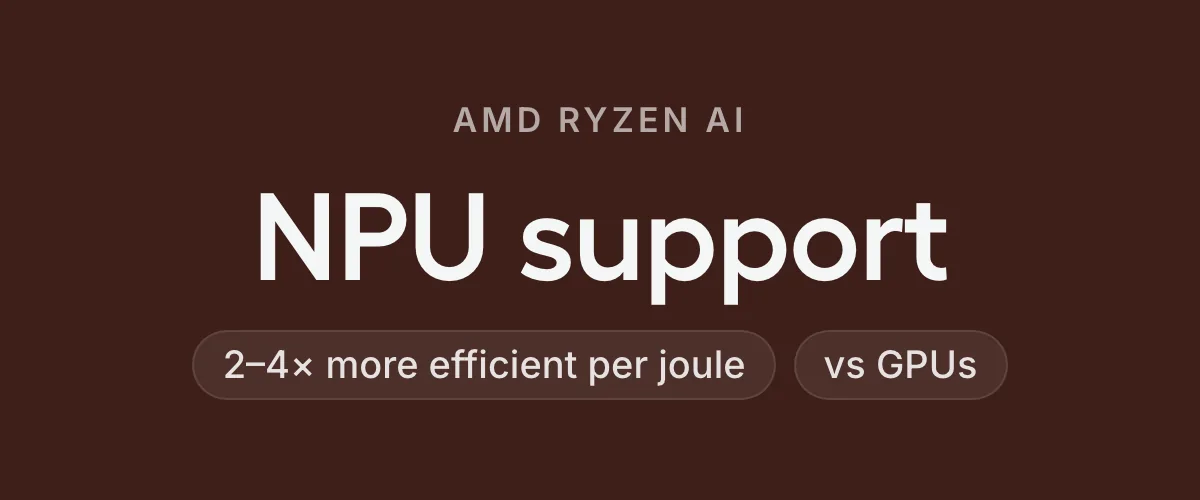
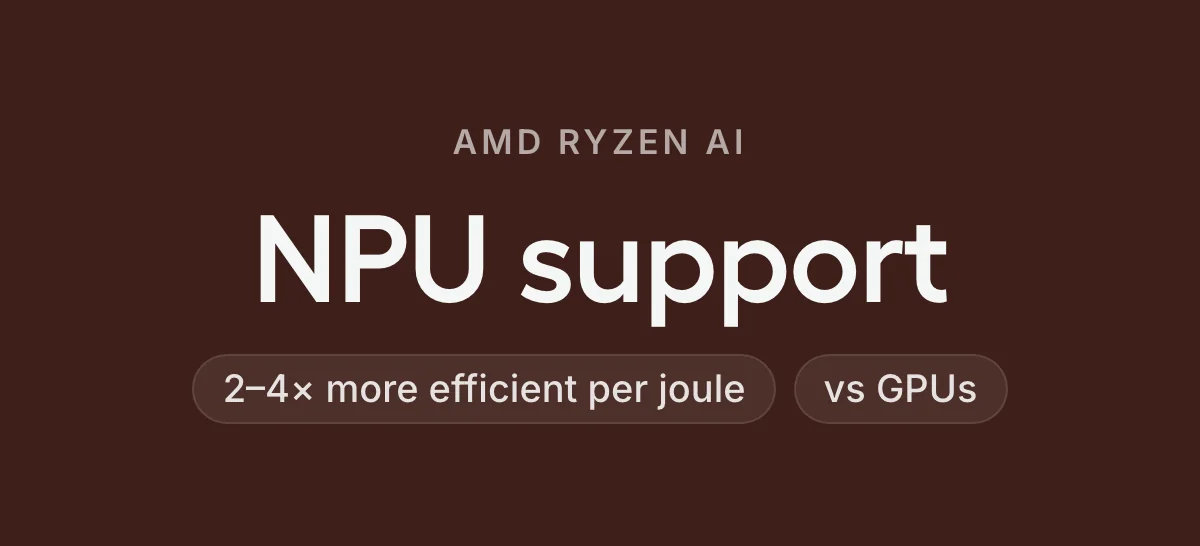
Release history: two cards per release, taller artwork, softer controls

diff --git a/studio/frontend/src/components/update/whats-new-dialog.tsx b/studio/frontend/src/components/update/whats-new-dialog.tsx
@@ -32,8 +32,6 @@ const RAIL_BG =
   "bg-[color-mix(in_oklab,var(--foreground)_calc(3%*var(--contrast-wash-gain,1)),transparent)]";
 const HAIRLINE =
   "border-[color-mix(in_oklab,var(--foreground)_calc(9%*var(--contrast-wash-gain,1)),transparent)]";
-const IMAGE_RING =
-  "ring-1 ring-[color-mix(in_oklab,var(--foreground)_calc(8%*var(--contrast-wash-gain,1)),transparent)]";
 
 export function WhatsNewDialog() {
   const { open, offer, close } = useWhatsNew();
@@ -46,7 +44,7 @@ export function WhatsNewDialog() {
       }}
     >
       <DialogContent
-        className="flex h-[min(38rem,calc(100dvh-var(--studio-window-chrome-top,0px)-2rem))] flex-col gap-0 overflow-hidden p-0 focus:outline-none sm:max-w-[60rem]"
+        className="flex h-[min(41rem,calc(100dvh-var(--studio-window-chrome-top,0px)-2rem))] flex-col gap-0 overflow-hidden rounded-2xl p-0 focus:outline-none sm:max-w-[60rem]"
         tabIndex={-1}
         onOpenAutoFocus={(event) => {
           event.preventDefault();
@@ -121,13 +119,7 @@ function ReleaseHistory({
 
   return (
     <div className="flex min-h-0 flex-1 max-sm:flex-col">
-      <aside
-        className={cn(
-          "flex min-h-0 shrink-0 flex-col border-b sm:w-64 sm:border-b-0 sm:border-r",
-          RAIL_BG,
-          HAIRLINE,
-        )}
-      >
+      <aside className={cn("flex min-h-0 shrink-0 flex-col sm:w-64", RAIL_BG)}>
         <header className="flex items-center gap-3 px-6 pb-5 pt-7 max-sm:pr-14">
           <img
             src="/circle-logo-small.png"
@@ -233,7 +225,7 @@ function UpdateAction() {
       <Button
         size="sm"
         variant="primary"
-        className="h-auto w-full rounded-full px-4 py-2.5 text-ui-13"
+        className="h-auto w-full rounded-lg px-4 py-2.5 text-ui-13"
         disabled={liveOffer.actionDisabled}
         onClick={() => {
           if (liveOffer.source === "desktop") {
@@ -269,7 +261,7 @@ function RailItem({
       aria-current={selected ? "true" : undefined}
       onClick={onSelect}
       className={cn(
-        "flex shrink-0 cursor-pointer items-center gap-3 rounded-lg px-3 py-2 text-left transition-colors",
+        "flex shrink-0 cursor-pointer items-center gap-3 rounded-md px-3 py-2 text-left transition-colors",
         "hover:bg-[color-mix(in_oklab,var(--foreground)_calc(5%*var(--contrast-wash-gain,1)),transparent)] focus-visible:outline-none focus-visible:ring-2 focus-visible:ring-inset focus-visible:ring-ring",
         selected &&
           "bg-[color-mix(in_oklab,var(--foreground)_calc(9%*var(--contrast-wash-gain,1)),transparent)] hover:bg-[color-mix(in_oklab,var(--foreground)_calc(9%*var(--contrast-wash-gain,1)),transparent)]",
@@ -354,8 +346,7 @@ function ReleaseBody({ entry }: { entry: Release }) {
               }}
               alt={feature.alt}
               className={cn(
-                "block aspect-[12/5] w-full rounded-xl object-cover",
-                IMAGE_RING,
+                "block aspect-[11/5] w-full rounded-2xl object-cover",
               )}
             />
             <figcaption className="mt-3.5">
@@ -459,8 +450,7 @@ function CatchUp({
                   event.currentTarget.style.display = "none";
                 }}
                 className={cn(
-                  "hidden aspect-[12/5] w-44 shrink-0 self-start rounded-lg object-cover sm:block",
-                  IMAGE_RING,
+                  "hidden aspect-[11/5] w-44 shrink-0 self-start rounded-xl object-cover sm:block",
                 )}
               />
             )}
